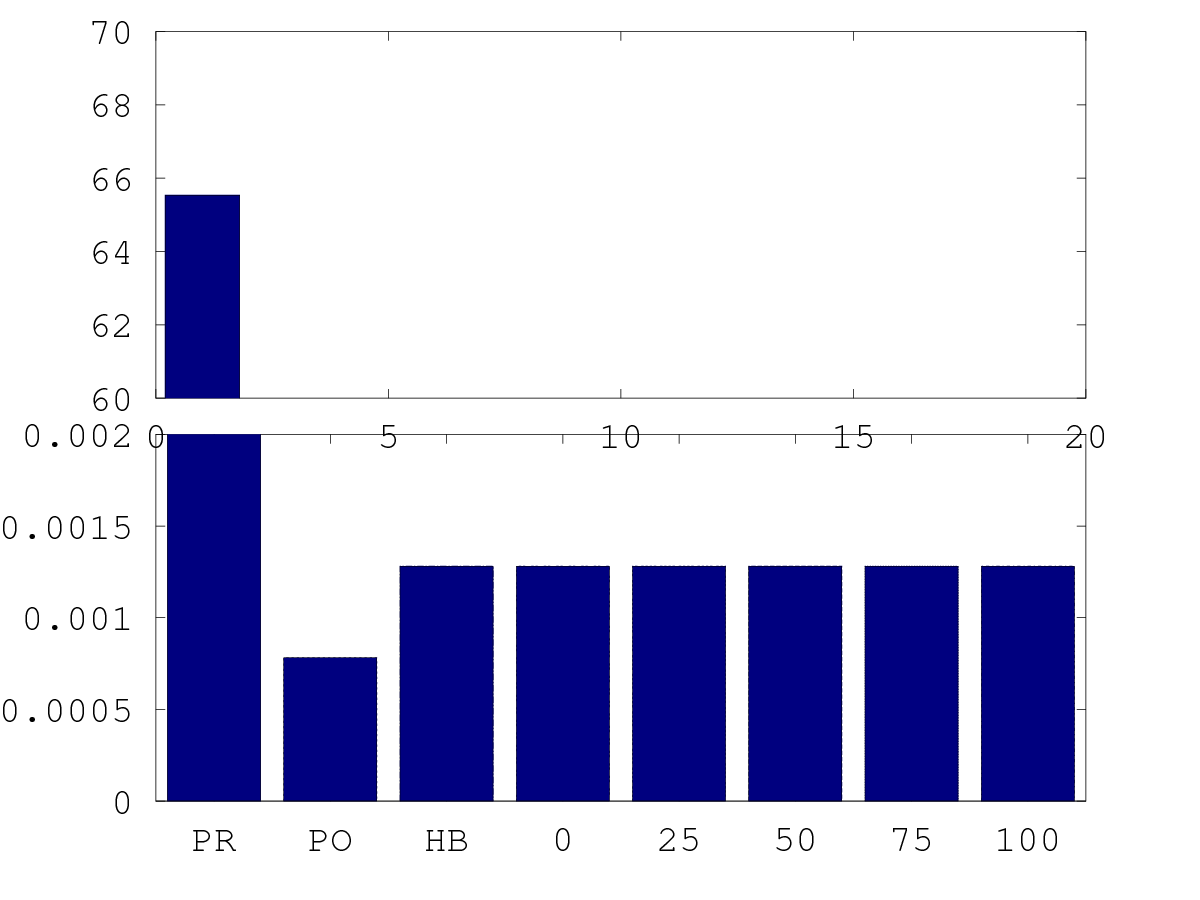
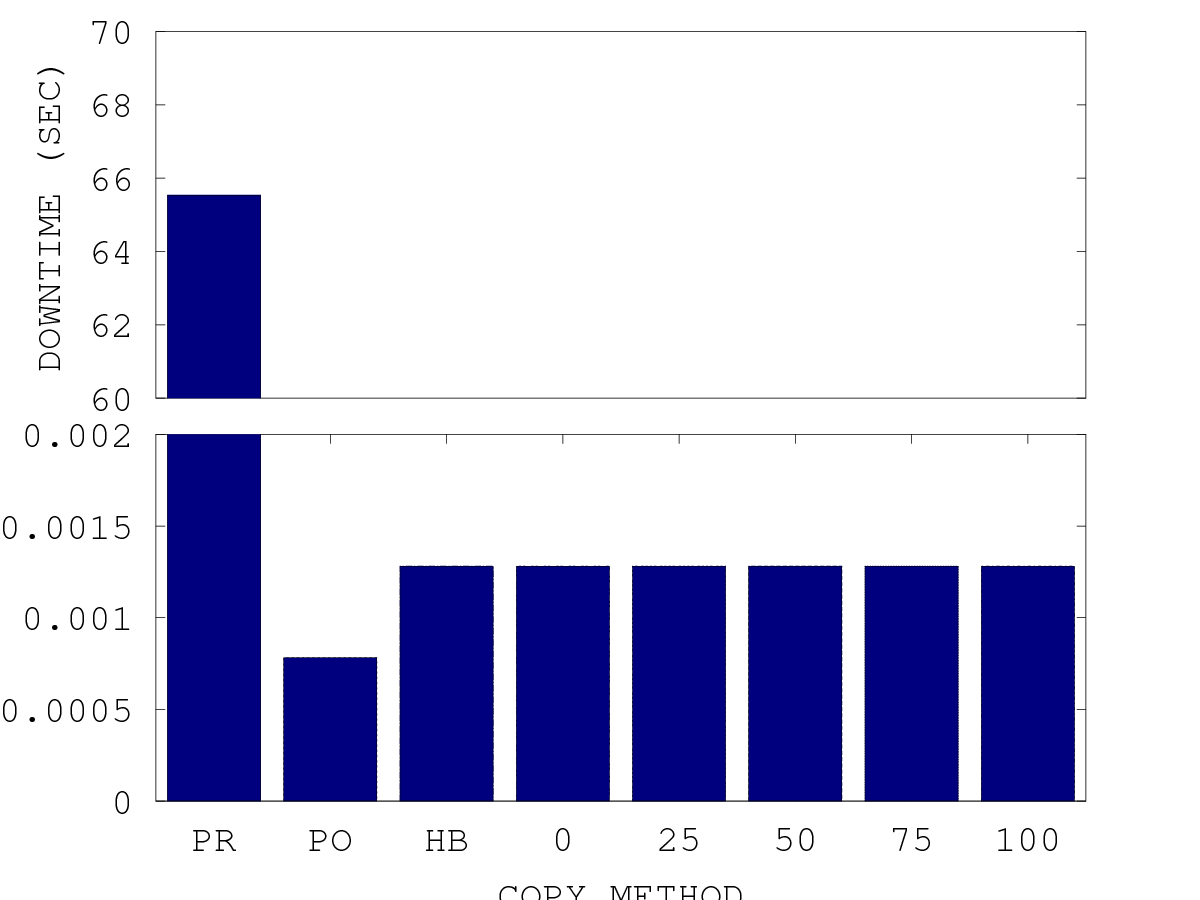
basic_break.m

diff --git a/basic_break.m b/basic_break.m
@@ -303,14 +303,14 @@ bar(xintervals, A(:,2))
 set(a1, 'XTick', xintervals, 'XTickLabel', x, 'FontSize', fontsize)
 set (a1, 'ylim', ylim1);
 %set(a1, 'xtick', []);
-%xlabel('COPY METHOD', 'FontSize', fontsize);
+xlabel('COPY METHOD', 'FontSize', fontsize);
 %ylabel('DOWNTIME (SEC)', 'FontSize', fontsize);
 
 a2 = axes ('position', [p0(1) p0(4)/2+.15 p0(3) p0(4)/2]);
 bar(xintervals, A(:,2))
 set(a2, 'ylim', ylim2, 'FontSize', fontsize);
-%set(a2, 'xtick', []);
-%ylabel('DOWNTIME (SEC)', 'FontSize', fontsize);
+set(a2, 'xtick', []);
+ylabel('DOWNTIME (SEC)', 'FontSize', fontsize);
 
 saveas (1, strcat(output, ".png"));
 saveas (1, strcat(output, ".eps"));
